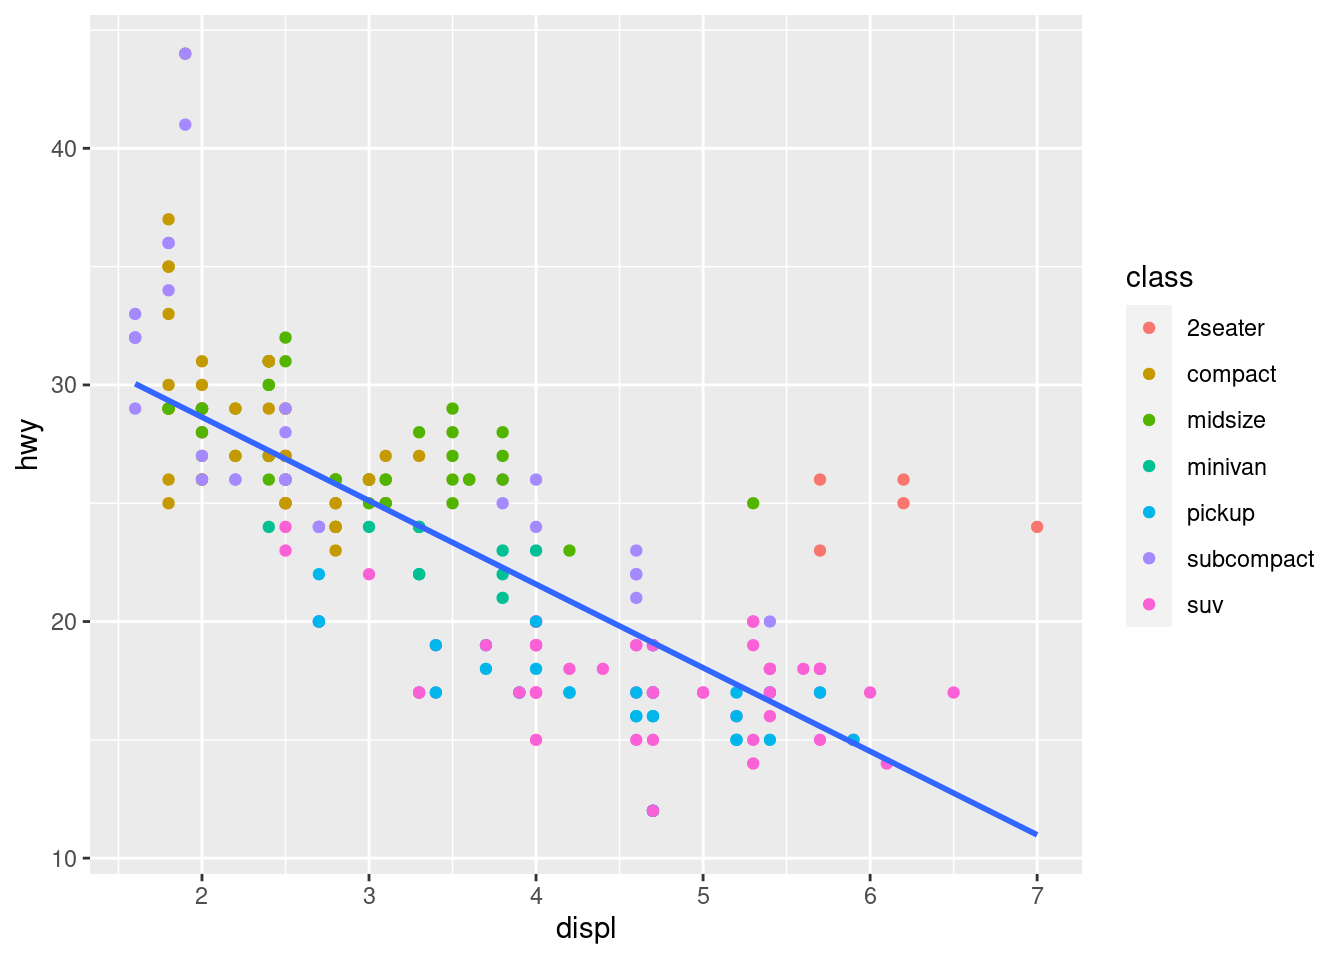
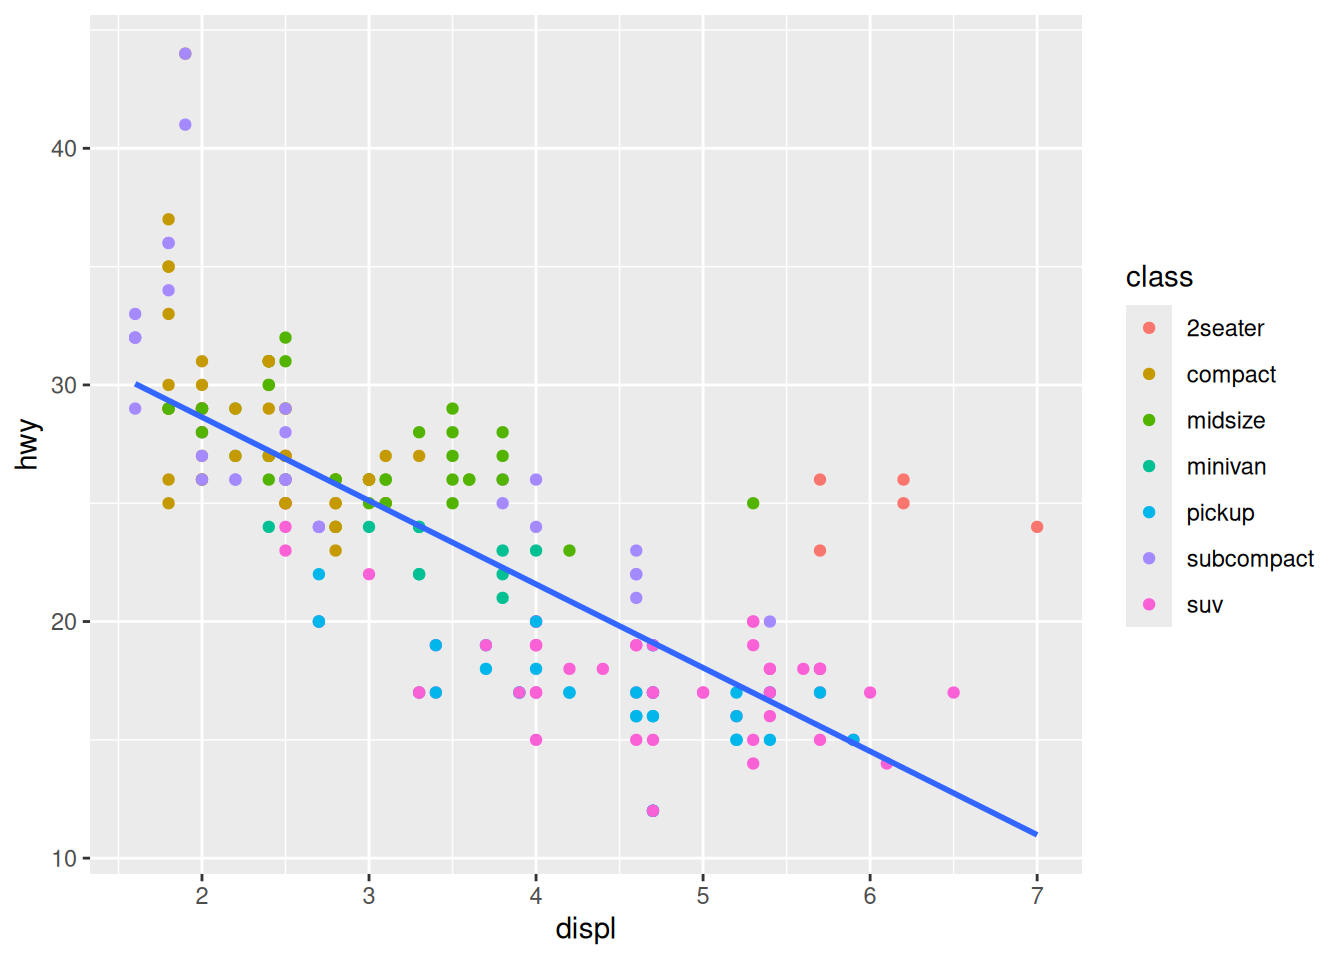
Re-build README.Rmd (GitHub Actions)

diff --git a/README.md b/README.md
@@ -51,12 +51,17 @@ p
 #> `geom_smooth()` using formula = 'y ~ x'
 ```
 
-<img src="man/figures/README-expected-plot-1.png" width="100%" />
+<img src="man/figures/README-expected-plot-1.png" alt="" width="100%" />
 
 We can use ggcheck to test that students used `geom_point()`
 
 ``` r
 library(ggcheck)
+#> 
+#> Attaching package: 'ggcheck'
+#> The following object is masked from 'package:ggplot2':
+#> 
+#>     is_ggplot
 
 uses_geoms(p, "point", exact = FALSE)
 #> [1] TRUE